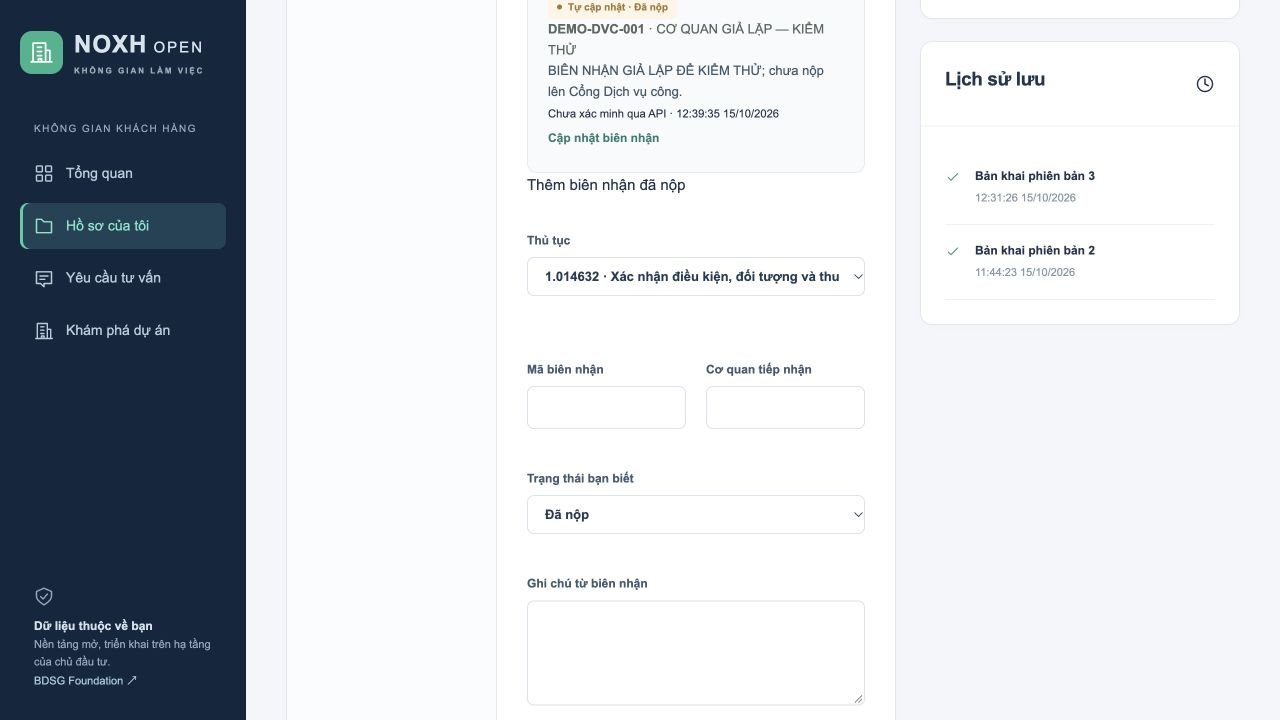
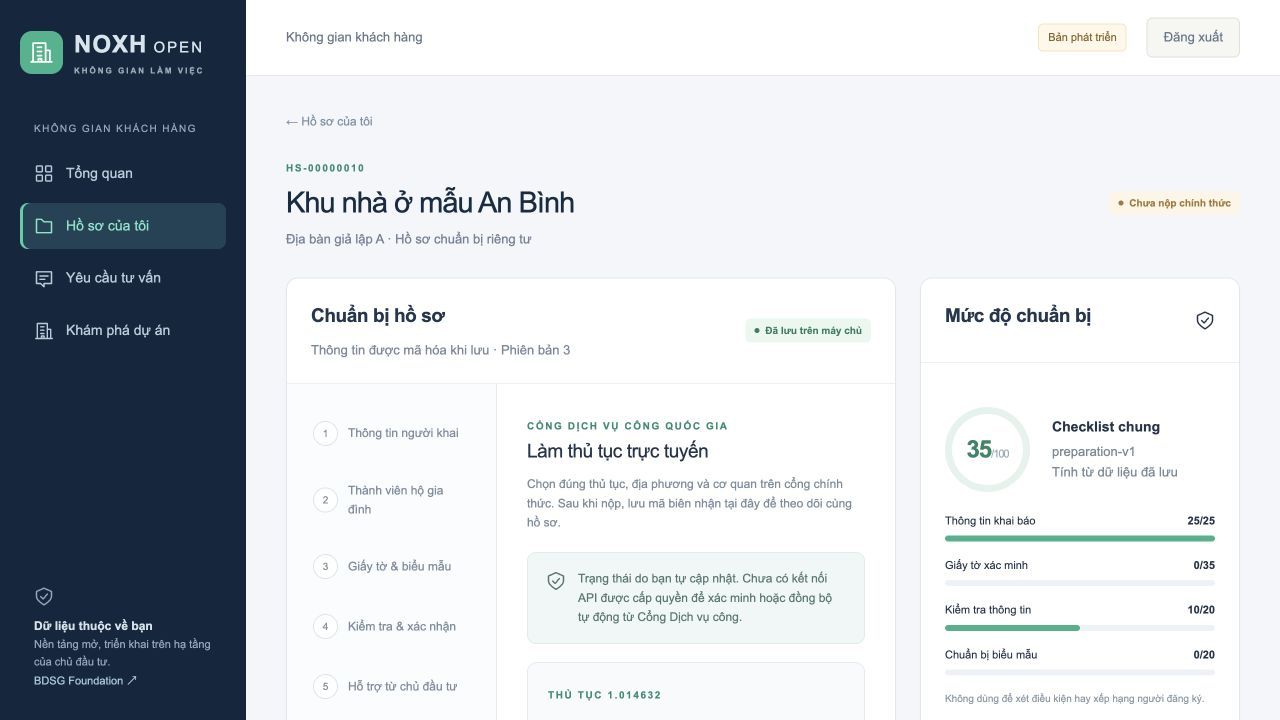
fix: preserve campaign consent scope and canonical encrypted IDs

diff --git a/apps/partner-console/app/workbench.tsx b/apps/partner-console/app/workbench.tsx
@@ -88,7 +88,8 @@ function CampaignEditor({
       <h2>{campaign ? 'Chỉnh sửa chiến dịch' : 'Tạo chiến dịch truyền thông'}</h2>
       <p>
         Nội dung sẽ cần chủ đầu tư duyệt trước khi đường dẫn tư vấn hoạt động. Chỉnh sửa bản đang
-        chạy sẽ đưa chiến dịch về bản nháp.
+        chạy sẽ đưa chiến dịch về bản nháp. Dự án đã chọn được cố định; muốn đổi dự án cần tạo chiến
+        dịch mới.
       </p>
       <div className="form-grid">
         <label>
@@ -103,18 +104,30 @@ function CampaignEditor({
         </label>
         <label>
           Dự án được giao
-          <select
-            className="search-input"
-            name="projectId"
-            required
-            defaultValue={campaign?.project_id ?? projects[0]?.id}
-          >
-            {projects.map((p) => (
-              <option key={p.id} value={p.id}>
-                {p.name}
-              </option>
-            ))}
-          </select>
+          {campaign ? (
+            <>
+              <input type="hidden" name="projectId" value={campaign.project_id} />
+              <input
+                className="search-input"
+                readOnly
+                value={campaign.project_name}
+                aria-label="Dự án cố định của chiến dịch"
+              />
+            </>
+          ) : (
+            <select
+              className="search-input"
+              name="projectId"
+              required
+              defaultValue={projects[0]?.id}
+            >
+              {projects.map((p) => (
+                <option key={p.id} value={p.id}>
+                  {p.name}
+                </option>
+              ))}
+            </select>
+          )}
         </label>
       </div>
       <label>

diff --git a/apps/api/src/partner.test.ts b/apps/api/src/partner.test.ts
@@ -273,6 +273,33 @@ it('revoking a project blocks old campaign links and guessed lead writes, not on
   );
   expect(await service.leads(consultant)).toHaveLength(0);
   await expect(service.campaign(campaign)).rejects.toMatchObject({ status: 404 });
+  // Grant a different project, then attempt to move the old campaign to recover its contacts.
+  await service.update(
+    staff,
+    partner,
+    {
+      name: 'ĐỐI TÁC GIẢ LẬP A',
+      status: 'active',
+      projectIds: ['20000000-0000-4000-8000-000000000002'],
+    },
+    2,
+  );
+  await expect(
+    service.saveCampaign(
+      manager,
+      { ...campaignBody, projectId: '20000000-0000-4000-8000-000000000002' },
+      campaign,
+      3,
+    ),
+  ).rejects.toMatchObject({ status: 409 });
+  await expect(
+    db.query('UPDATE partner_campaigns SET project_id=$2 WHERE id=$1', [
+      campaign,
+      '20000000-0000-4000-8000-000000000002',
+    ]),
+  ).rejects.toThrow('campaign scope and creation provenance are immutable');
+  expect(await service.leads(consultant)).toHaveLength(0);
+
   await expect(
     service.updateLead(consultant, fresh, { status: 'contacting', note: '' }, 2),
   ).rejects.toMatchObject({ status: 404 });
@@ -280,7 +307,7 @@ it('revoking a project blocks old campaign links and guessed lead writes, not on
     staff,
     partner,
     { name: 'ĐỐI TÁC GIẢ LẬP A', status: 'suspended', projectIds: [project] },
-    2,
+    3,
   );
   await expect(service.workspace(admin)).rejects.toMatchObject({ status: 403 });
   expect(secondPartner).toBeTruthy();

diff --git a/apps/api/src/partner-service.ts b/apps/api/src/partner-service.ts
@@ -313,11 +313,15 @@ export class PartnerService {
       if (id) {
         const r = (
           await q.query(
-            'SELECT version FROM partner_campaigns WHERE id=$1 AND organization_id=$2 AND partner_id=$3 FOR UPDATE',
+            'SELECT version,project_id FROM partner_campaigns WHERE id=$1 AND organization_id=$2 AND partner_id=$3 FOR UPDATE',
             [ref, a.organizationId, a.partnerId],
           )
         ).rows[0];
         if (!r) throw new NotFoundException('Không có chiến dịch');
+        if (r.project_id !== b.projectId.toLowerCase())
+          throw new ConflictException(
+            'Không được đổi dự án của chiến dịch. Hãy tạo chiến dịch mới để giữ đúng phạm vi đồng ý của khách.',
+          );
         if (Number(r.version) !== expected) throw new ConflictException('Chiến dịch đã thay đổi');
         await q.query(
           "UPDATE partner_campaigns SET project_id=$4,name=$5,channel=$6,headline=$7,description=$8,status='draft',review_note='',reviewed_by=NULL,reviewed_at=NULL,version=version+1,updated_at=now() WHERE id=$1 AND organization_id=$2 AND partner_id=$3",
@@ -584,6 +588,7 @@ export class PartnerService {
     });
   }
   async updateLead(c: Citizen, id: string, body: unknown, expected: number) {
+    id = uuid(id);
     const p = LeadUpdateSchema.safeParse(body);
     if (!p.success) throw new BadRequestException('Trạng thái tư vấn hoặc ghi chú không hợp lệ');
     return this.db.tx(async (q) => {

diff --git a/apps/api/src/dossier.test.ts b/apps/api/src/dossier.test.ts
@@ -164,3 +164,19 @@ it('verifies the audit chain, detects tampering and rejects event updates/delete
     db.query("UPDATE identity_private.operations SET action='altered'"),
   ).rejects.toThrow();
 });
+
+it('canonicalizes case-insensitive UUIDs before binding encrypted snapshots and replies', async () => {
+  const alpha = 'abcdef12-0000-4000-8000-000000000001';
+  await db.query(
+    'INSERT INTO prep_dossiers(id,organization_id,project_id,owner_user_id) VALUES($1,$2,$3,$4)',
+    [alpha, org, '20000000-0000-4000-8000-000000000002', owner],
+  );
+  await service.save(c, alpha.toUpperCase(), declaration, 1);
+  expect((await service.detail(c, alpha)).declaration).toEqual(declaration);
+  const request = await service.requestHelp(c, alpha, {
+    message: 'CÂU HỎI GIẢ LẬP',
+    accepted: true,
+  });
+  await service.reply(staff, request.id.toUpperCase(), { message: 'PHẢN HỒI GIẢ LẬP' }, 1);
+  expect((await service.detail(c, alpha)).requests[0]?.reply).toBe('PHẢN HỒI GIẢ LẬP');
+});

diff --git a/packages/contracts/src/generated.ts b/packages/contracts/src/generated.ts
@@ -811,6 +811,7 @@ export interface paths {
             cookie?: never;
         };
         get?: never;
+        /** @description Role, agency, active project and expected version checked. Project cannot change; editing content resets investor approval. */
         put: operations["updatePartnerCampaign"];
         post?: never;
         delete?: never;
@@ -1293,7 +1294,10 @@ export interface components {
             status: "active" | "suspended";
         };
         CampaignWrite: {
-            /** Format: uuid */
+            /**
+             * Format: uuid
+             * @description Assigned project. Immutable after creation; create a new campaign for a different project. Existing consultation consent cannot be transferred.
+             */
             projectId: string;
             name: string;
             /** @enum {string} */

diff --git a/apps/api/src/dossier-service.ts b/apps/api/src/dossier-service.ts
@@ -28,7 +28,7 @@ export class DossierService {
     return r;
   }
   private scope(c: Citizen, id: string) {
-    return 'declaration:' + c.organizationId + ':' + c.userId + ':' + id;
+    return 'declaration:' + uuid(c.organizationId) + ':' + uuid(c.userId) + ':' + uuid(id);
   }
   private async declaration(q: Sql, c: Citizen, id: string) {
     const row = (
@@ -254,6 +254,7 @@ export class DossierService {
     ).map((r) => this.requestView(r));
   }
   async reply(s: Staff, id: string, body: unknown, expected: number) {
+    id = uuid(id);
     const message = text(record(body).message, 2000);
     return this.db.tx(async (q) => {
       const r = (

diff --git a/apps/api/src/health.ts b/apps/api/src/health.ts
@@ -14,9 +14,9 @@ export class HealthService implements OnModuleDestroy {
       await this.pool.query('SELECT 1');
       checks.postgres = true;
       const r = await this.pool.query(
-        "SELECT version FROM schema_migrations WHERE version IN('001','002','003','004','005')",
+        "SELECT version FROM schema_migrations WHERE version IN('001','002','003','004','005','006')",
       );
-      checks.migration = r.rowCount === 5;
+      checks.migration = r.rowCount === 6;
     } catch {
       /* readiness stays false; never expose connection errors */
     }

diff --git a/apps/api/src/assistance.test.ts b/apps/api/src/assistance.test.ts
@@ -238,7 +238,7 @@ it('requires owner confirmation; applies once with audit; rejects replay and cro
   await expect(ai.confirm(c, id, proposalId, { accepted: false })).rejects.toMatchObject({
     status: 400,
   });
-  await ai.confirm(c, id, proposalId, { accepted: true });
+  await ai.confirm(c, id, proposalId.toUpperCase(), { accepted: true });
   const detail = await dossiers.detail(c, id);
   expect(detail.declaration.fullName).toBe('TÊN MỚI GIẢ LẬP');
   expect(detail.declaration.confirmed).toBe(false);

diff --git a/apps/api/src/admin-service.ts b/apps/api/src/admin-service.ts
@@ -26,7 +26,7 @@ export function uuid(value: unknown) {
   const s = text(value, 36);
   if (!/^[a-f0-9]{8}-[a-f0-9]{4}-[a-f0-9]{4}-[a-f0-9]{4}-[a-f0-9]{12}$/i.test(s))
     throw new BadRequestException('Mã định danh không hợp lệ');
-  return s;
+  return s.toLowerCase();
 }
 export function version(value: unknown) {
   if (typeof value !== 'string' || !/^"?\d+"?$/.test(value))

diff --git a/apps/api/src/openai-service.ts b/apps/api/src/openai-service.ts
@@ -397,6 +397,7 @@ export class OpenAiService {
     }
   }
   async confirm(c: Citizen, id: string, proposalId: string, body: unknown) {
+    proposalId = uuid(proposalId);
     const b = record(body);
     if (b.accepted !== true || Object.keys(b).some((k) => k !== 'accepted'))
       throw new BadRequestException('Cần xác nhận riêng thao tác đã xem');

diff --git a/apps/api/src/app.ts b/apps/api/src/app.ts
@@ -45,7 +45,7 @@ export class PlatformController {
         type: 'urn:noxh:problem:not-ready',
         title: 'Dependencies unavailable',
         status: 503,
-        detail: 'Postgres, Redis and migrations 001–005 must be ready.',
+        detail: 'Postgres, Redis and migrations 001–006 must be ready.',
         checks: result.checks,
       };
     }

diff --git a/apps/api/src/workforce.ts b/apps/api/src/workforce.ts
@@ -18,7 +18,7 @@ export function organizationId() {
   const id = process.env.AUTH_ORGANIZATION_ID ?? '';
   if (!/^[a-f0-9]{8}-[a-f0-9]{4}-[a-f0-9]{4}-[a-f0-9]{4}-[a-f0-9]{12}$/i.test(id))
     throw new ServiceUnavailableException('Chưa cấu hình tổ chức');
-  return id;
+  return id.toLowerCase();
 }
 @Injectable()
 export class WorkforceAuth {
